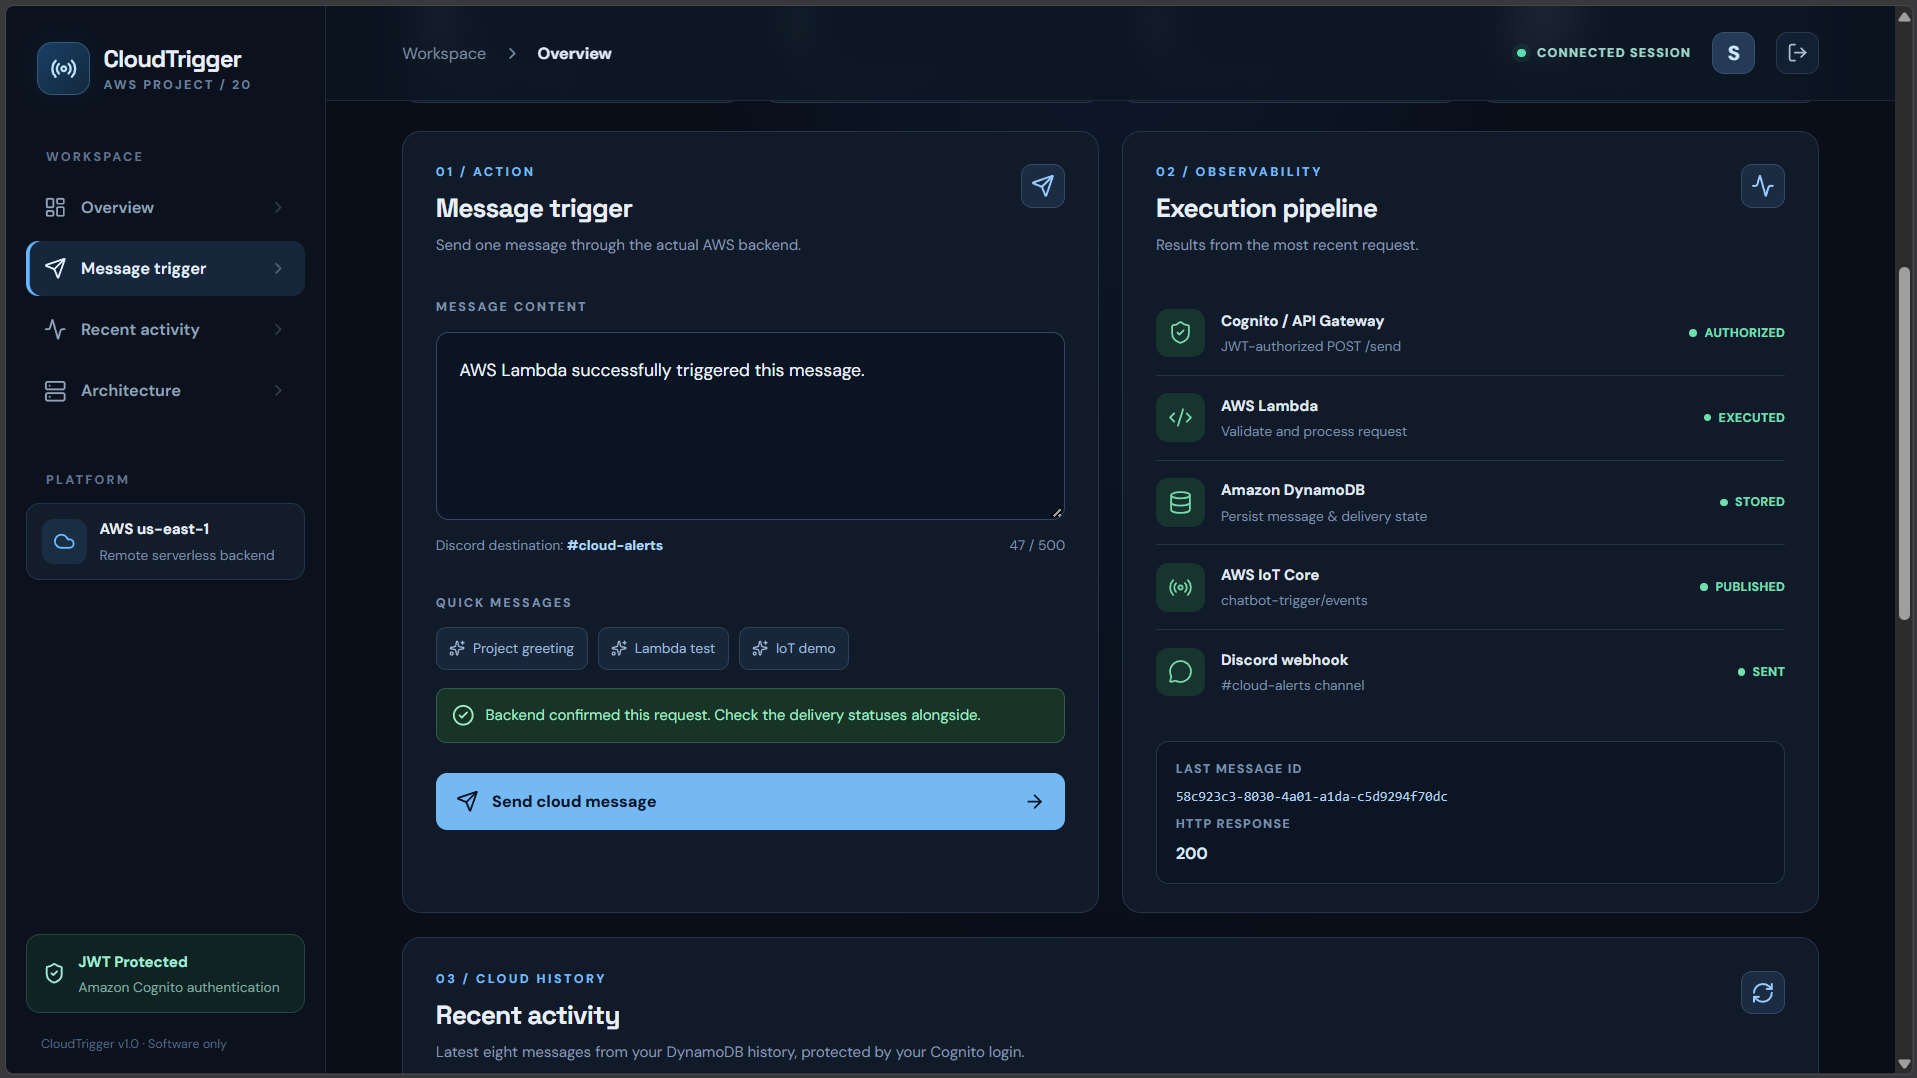
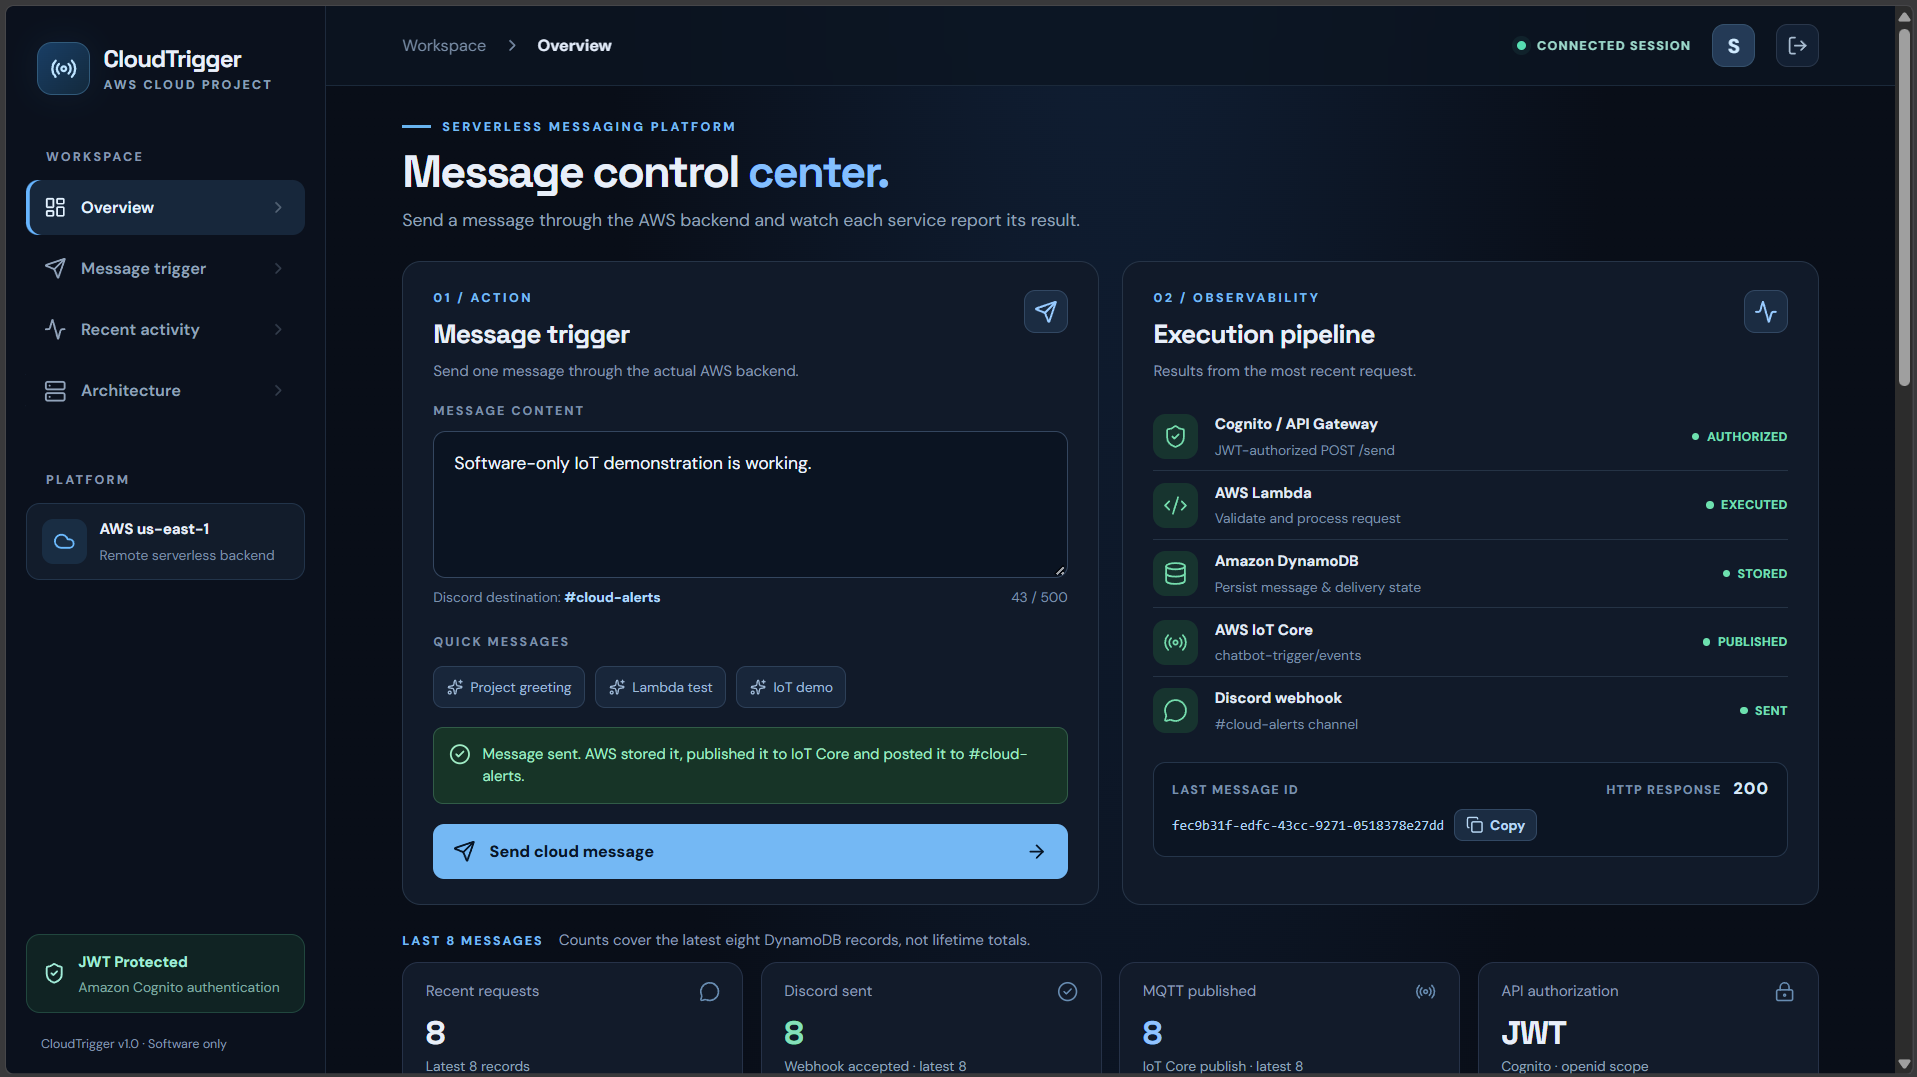
docs: update final CloudTrigger dashboard screenshots

diff --git a/README.md b/README.md
@@ -15,11 +15,11 @@ This is a **software-only implementation**: the web dashboard provides the trigg
 
 ## Screenshots
 
-**Authenticated message trigger and execution pipeline** (local development verification):
+**Authenticated message trigger and execution pipeline** (live GitHub Pages verification, 1 November 2026):
 
 ![CloudTrigger dashboard showing authorized, executed, stored, published, sent, and HTTP 200](screenshots/dashboard-pipeline.png)
 
-**Live DynamoDB-backed Recent Activity** (local development verification):
+**DynamoDB-backed Recent Activity** (live GitHub Pages verification, 1 November 2026; cropped to show recent results):
 
 ![CloudTrigger showing the latest stored messages with MQTT and Discord statuses](screenshots/dynamodb-history.png)
 
